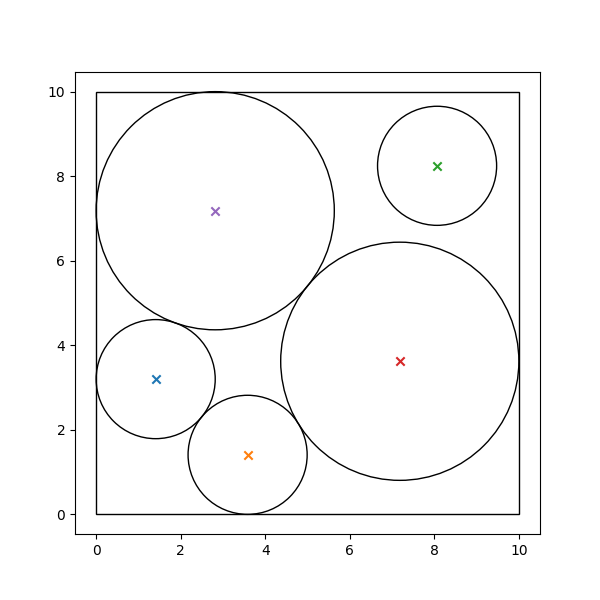
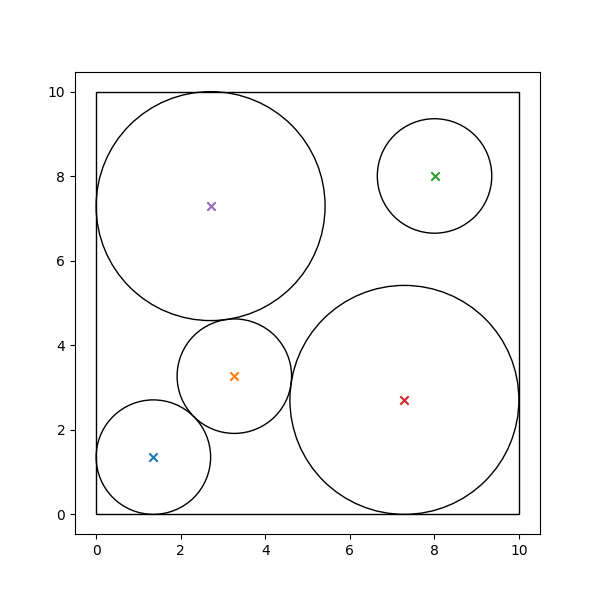
初期値変えた場合のコード(y_1 を2から3へ)

diff --git a/my_code/chap3/3-4-3-initial-value-changed.py b/my_code/chap3/3-4-3-initial-value-changed.py
@@ -1,0 +1,85 @@
+import os
+import casadi
+import numpy as np
+import matplotlib.pyplot as plt
+from matplotlib.colors import LogNorm
+from matplotlib import patches
+
+a = 10
+
+R = casadi.SX.sym('R') # Rという名前のsymbolを用意
+x_list = [casadi.SX.sym(f'x{i}') for i in range(5)] # list x_0, ..., x_4
+y_list = [casadi.SX.sym(f'y{i}') for i in range(5)] # list y_0, ..., y_4
+r_list = [R,R,R,2*R,2*R] # r_0, ..., r_4 は R,R,R,2R,2Rで代入.
+
+x_nlp = casadi.vertcat(R, *x_list, *y_list) # 連結した
+f_nlp = -R # 評価関数. -Rを最小化する, つまりRを最大化する.
+g_nlp = [] # 制約?? いったんは空リストを作ってる?
+
+g_nlp.append(R) # 未治療Rを制約リストに入れる(R>=0を意味する!!!) listに対するappend メソッドを覚えよう
+
+for i in range(5): #各iに対して, 次を制約に加える. rande(5)は0,1,2,3,4の範囲.
+    g_nlp.append(x_list[i] - r_list[i]) # x_i - r_i >= 0
+    g_nlp.append(a-x_list[i] - r_list[i]) # 中身が0以上という式になるので, これはx_i + r_i <= aということ! 右辺を>= 0にして考える.
+    g_nlp.append(y_list[i] - r_list[i])
+    g_nlp.append(a-y_list[i] - r_list[i])
+
+for j in range(5): # 各i,jに対して次のeq >= 0 であるという制約を加える!こｒは1+2+3;4 = 10個の制約を課す
+    for i in range(0, j):
+        eq = (x_list[i] - x_list[j])**2 + (y_list[i]-y_list[j])**2 \
+                - (r_list[i] + r_list[j])**2
+        g_nlp.append(eq)
+
+g_nlp = casadi.vertcat(*g_nlp) #複数の制約条件を列方向に連結する？*g_nlpはアンパック機能というらしい？
+#g_nlpそのものはlist型なので, それをcasadi.vertcatに渡すことは出来ない
+#SX型, DM型を引数にとるので, 個別にアンパックしておけば, ひとつひとつはSX型になっていて, casad.vertcatに渡すことができるようになる?
+
+# "x", "f", "g"をキーとする辞書nlpの作成
+nlp = {'x': x_nlp,
+        'f': f_nlp,
+        'g': g_nlp
+        } #'x'はキーという. これを使うとr = S()で出した最適解における決定変数値を引っ張ってくることができる.
+
+#solver objectの生成
+S = casadi.nlpsol('S', 'ipopt', nlp) #最適化問題nlpを, IPOPTという最適化ライブラリを用いて解く, 解法アルゴリズムの用意をしている.
+print(S) #最適解を出力しよう
+# 「ipoptで解くので, それをnlpの辞書型で返します. 」
+
+# S は辞書を返す！その辞書の形が, まさしく先程定めたnlpの形なのである
+
+
+# 最適化を実行（初期値は適当な値で設定）
+# 辞書r を定義.
+r = S(x0=[1,1,3,8,7,3,1,3,8,3,7], #11個の変数があり, その初期推定値がこれになってる.
+      lbg=[0]*31, ubg=[np.inf]*31)  # 制約の下限を0、上限をnp.inf = ∞と設定（31個の制約条件があるので31）
+x_opt = np.array(r['x']).ravel()  # 最適化の結果を1次元の配列に変換し, それをx_optという名前で定義する.   nlpで定義したキー'x'を呼び出している. rの返り値はmap型みたいな感じ?なので, 'x'を渡せば最適化結果のx_nlpを返すことができる。
+print('x_opt: ', x_opt)  # 文字列と, x_optの出力をしている.
+
+# 結果から半径と座標を抽出
+R_opt = x_opt[0]  # 最適な半径.
+coord_opt = x_opt[1:].reshape(2,5).T  # 各円の中心座標(x,y)を5行2列の行列として整理
+
+# 結果をプロット
+fig, ax = plt.subplots(figsize=(6,6))
+
+# 各円をプロット
+for i in range(5):
+    radius = R_opt if i <= 2 else 2*R_opt  # 最初の3つは半径R_opt、後の2つは半径が2倍（問題の仮定に従う）
+    circle = patches.Circle(xy=coord_opt[i], radius=radius, fill=False)  # 円の形状を作成（塗りつぶしなし）
+    ax.add_patch(circle)  # 円を描画
+    ax.scatter(*coord_opt[i], marker="x")  # 円の中心をx印でマーク（中心位置確認用）
+
+# 制約となる矩形領域（10×10）の枠を描画
+rect = patches.Rectangle([0,0],10,10,fill=False)  # 左下(0,0)を始点に10×10の矩形
+ax.add_patch(rect)
+
+# 描画領域の設定（矩形領域に合わせる）
+ax.set_xlim(0,10)
+ax.set_ylim(0,10)
+ax.axis("equal")  # x軸とy軸の比率を1:1に設定（円が正しく描画されるため）
+
+# 画像として保存
+plt.savefig("images/chap3_NLP_packing_1.png")
+
+# 描画を表示
+plt.show()
